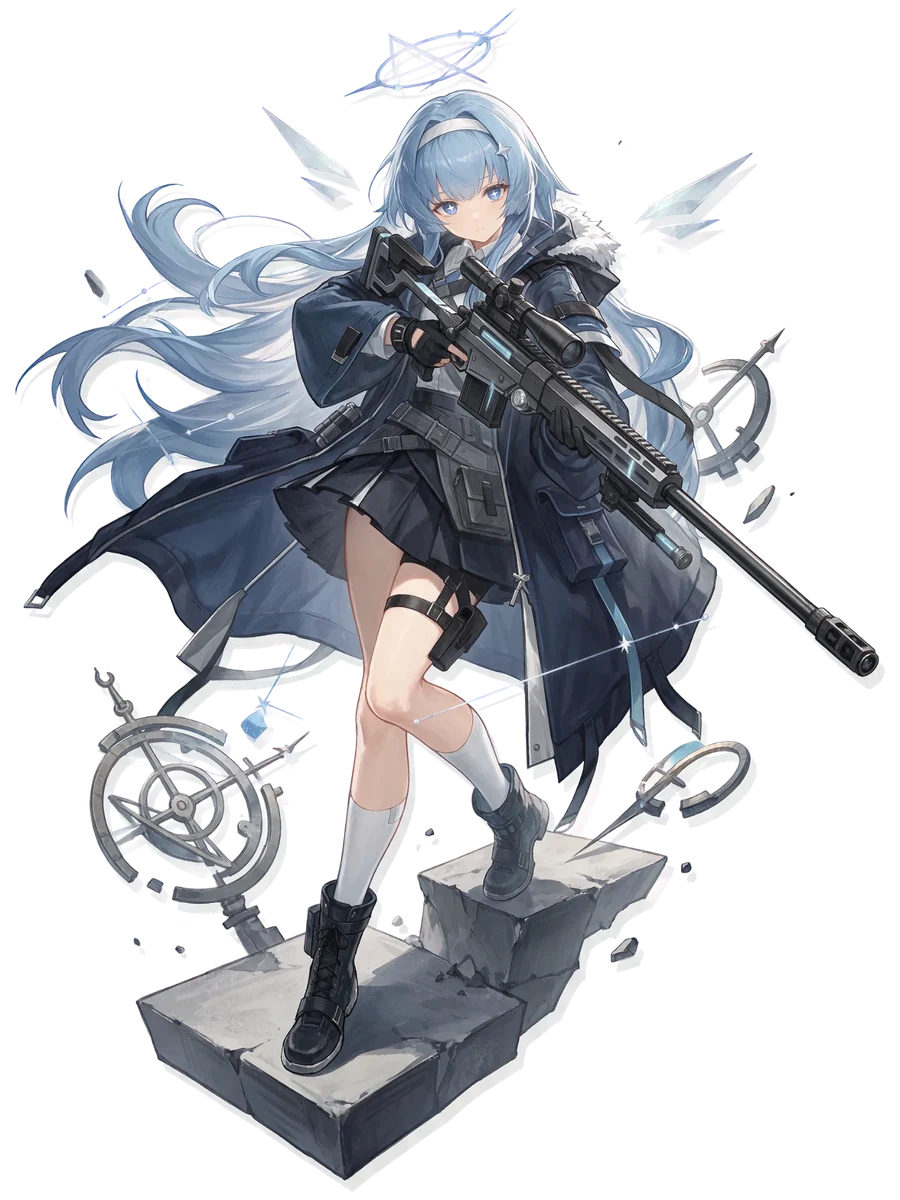
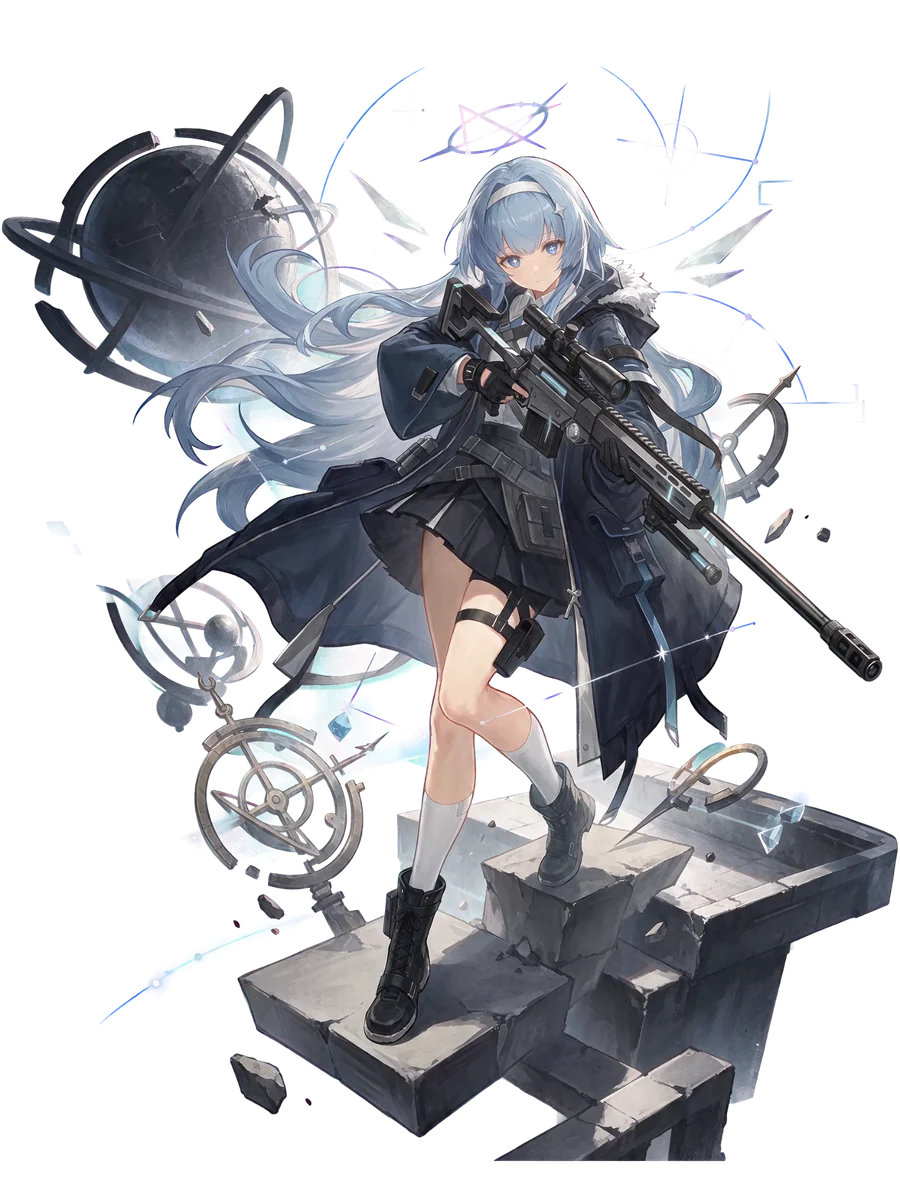
아스트라 2정 일러 교체, 메인 비서 위치·크기 편집(⟳ 버튼, 드래그·사이즈 막대), 상세 왼쪽 아래 원작 배치(직군 아이콘·근/원거리·대표 태그 2개), 상세 일러 얼굴 가운데 정렬
Claude-Session: https://claude.ai/code/session_01RhxLzgJD9WtnPFHmM2vGLF

diff --git a/arknights-au/ui.js b/arknights-au/ui.js
@@ -139,11 +139,11 @@
     if (o.skin || !o.art) return null;
     const pick = ((save.skins || {}).art || {})[o.id];
     const e2 = o.art2 && eliteOf(o.id) >= 2 && pick !== 'e0';
-    return e2 ? { src: o.art2, e2: true, wide: !!o.art2Wide, pos: o.art2Wide ? o.art2Pos || '50% 25%' : null } : { src: o.art };
+    return e2 ? { src: o.art2, e2: true, wide: !!o.art2Wide, pos: o.art2Wide ? o.art2Pos || '50% 25%' : null, face: o.art2Face } : { src: o.art, face: o.artFace };
   }
   function artHTML(def) {
     const fa = fullArt(def);
-    if (fa) return `<div class="art has-img full ${fa.wide ? 'wide' : ''} ${fa.e2 ? 'e2' : 'e0'}" style="--c:${def.color}${fa.pos ? `;--apos:${fa.pos}` : ''}${def.artView ? Object.entries(def.artView).map(([k, v]) => `;--d${k}:${v}`).join('') : ''}"><span class="art-en">${esc(def.en || '')}</span><img src="${esc(fa.src)}" alt="${esc(def.name)}"></div>`;
+    if (fa) return `<div class="art has-img full ${fa.wide ? 'wide' : ''} ${fa.e2 ? 'e2' : 'e0'}" style="--c:${def.color}${fa.pos ? `;--apos:${fa.pos}` : ''}${fa.face != null ? `;--fx:${fa.face}` : ''}${def.artView ? Object.entries(def.artView).map(([k, v]) => `;--d${k}:${v}`).join('') : ''}"><span class="art-en">${esc(def.en || '')}</span><img src="${esc(fa.src)}" alt="${esc(def.name)}"></div>`;
     if (def.image) return `<div class="art has-img" style="--c:${def.color}"><span class="art-en">${esc(def.en || '')}</span><img src="${esc(def.image)}" alt="${esc(def.name)}"></div>`;
     return `<div class="art" style="--c:${def.color}">
       <span class="art-ico">${icon(def.class)}</span>
@@ -362,6 +362,7 @@
     fixPlayer();
     const a = OPS[save.assistant];
     $('#home-art').innerHTML = artHTML(a);
+    applyHomePos();
     renderHomeEvent();
     mailDot();
     const ts = totalStars();
@@ -488,17 +489,62 @@
   $('#btn-feedback2').addEventListener('click', () => openFeedback());
   $('#home-news').addEventListener('click', () => { sfx('select'); go('store', 'packages'); });
   $('#btn-hideui').innerHTML = '<span class="oi ho_hide"></span>';
-  $('#btn-asst').innerHTML = icon('swap');
   // 그림 보기: UI를 숨기고 아무 데나 누르면 돌아옴
+  // ---------- 메인 화면 비서 위치 · 크기 조정 (원작처럼 그림을 드래그해서 옮기고, 오른쪽 막대로 크기 조절) ----------
+  // save.homeArt[오퍼 id] = { x, y: 화면 너비 · 높이 대비 % 이동, s: 배율 }
+  function homePos(id) { return { x: 0, y: 0, s: 1, ...((save.homeArt || {})[id] || {}) }; }
+  function applyHomePos(p = homePos(save.assistant)) {
+    const el = $('#home-art');
+    el.style.setProperty('--hx', p.x); el.style.setProperty('--hy', p.y); el.style.setProperty('--hs', p.s);
+  }
+  $('#btn-hpos').innerHTML = icon('swap');
+  function openHomePos() {
+    const scr = $('#screen-home'), id = save.assistant, start = homePos(id);
+    let cur = { ...start }, drag = null;
+    const clamp = (v, a, b) => Math.max(a, Math.min(b, v));
+    scr.classList.add('hp-edit');
+    const ov = document.createElement('div');
+    ov.className = 'hp-ov';
+    ov.innerHTML = `<button class="hp-btn cancel" data-hp="cancel"><i>✕</i>취소</button>
+      <div class="hp-size"><em>사이즈</em><small>200</small><input type="range" id="hp-s" min="50" max="200" step="1" aria-label="크기"><small>50</small><b id="hp-sv"></b></div>
+      <div class="hp-foot"><button class="hp-btn reset" data-hp="reset"><i>⟲</i>초기화</button><button class="hp-btn ok" data-hp="ok"><i>✓</i>확인</button></div>
+      <p class="hp-tip">그림을 끌어서 위치를 옮기고, 오른쪽 막대로 크기를 조절하세요</p>`;
+    scr.appendChild(ov);
+    const sync = () => { applyHomePos(cur); $('#hp-s').value = Math.round(cur.s * 100); $('#hp-sv').textContent = Math.round(cur.s * 100); };
+    sync();
+    $('#hp-s').addEventListener('input', (e) => { cur.s = +e.target.value / 100; sync(); });
+    ov.addEventListener('pointerdown', (e) => {
+      if (e.target.closest('.hp-btn, .hp-size')) return;
+      drag = { x: e.clientX, y: e.clientY, ox: cur.x, oy: cur.y };
+      try { ov.setPointerCapture(e.pointerId); } catch {}
+    });
+    ov.addEventListener('pointermove', (e) => {
+      if (!drag) return;
+      cur.x = clamp(drag.ox + ((e.clientX - drag.x) / innerWidth) * 100, -70, 70);
+      cur.y = clamp(drag.oy + ((e.clientY - drag.y) / innerHeight) * 100, -70, 70);
+      sync();
+    });
+    const end = () => { drag = null; };
+    ov.addEventListener('pointerup', end); ov.addEventListener('pointercancel', end);
+    ov.addEventListener('click', (e) => {
+      e.stopPropagation();
+      const b = e.target.closest('[data-hp]');
+      if (!b) return;
+      const k = b.dataset.hp;
+      sfx('select');
+      if (k === 'reset') { cur = { x: 0, y: 0, s: 1 }; sync(); return; }
+      if (k === 'ok') {
+        save.homeArt = save.homeArt || {};
+        if (cur.x || cur.y || cur.s !== 1) save.homeArt[id] = { x: Math.round(cur.x * 10) / 10, y: Math.round(cur.y * 10) / 10, s: cur.s }; else delete save.homeArt[id];
+        writeSave(); toast('비서 위치를 저장했습니다');
+      } else applyHomePos(start);
+      ov.remove(); scr.classList.remove('hp-edit');
+    });
+  }
+  $('#btn-hpos').addEventListener('click', (e) => { e.stopPropagation(); openHomePos(); });
   $('#btn-hideui').addEventListener('click', (e) => { e.stopPropagation(); $('#screen-home').classList.add('ui-hidden'); });
-  $('#screen-home').addEventListener('click', (e) => { if ($('#screen-home').classList.contains('ui-hidden')) { e.stopPropagation(); $('#screen-home').classList.remove('ui-hidden'); } }, true);
+  $('#screen-home').addEventListener('click', (e) => { if ($('#screen-home').classList.contains('ui-hidden') && !$('#screen-home').classList.contains('hp-edit')) { e.stopPropagation(); $('#screen-home').classList.remove('ui-hidden'); } }, true);
   // 비서 교체: 등록한 비서들을 차례로
-  $('#btn-asst').addEventListener('click', () => {
-    const list = (save.assistants || []).filter((id) => OPS[id]);
-    if (list.length < 2) { toast('오퍼레이터 상세에서 비서를 더 추가하면 바꿀 수 있습니다'); return; }
-    save.assistant = list[(list.indexOf(save.assistant) + 1) % list.length];
-    writeSave(); sfx('select'); greeted = false; RENDER.home();
-  });
   $('#home-event').addEventListener('click', () => { sfx('select'); go('event'); });
 
   // ---------- 우편함 ----------
@@ -1094,9 +1140,14 @@
     $('#detail-en').textContent = o.en || '';
     $('#detail-name').textContent = o.name;
     fitName($('#detail-name'));
-    $('#detail-class').innerHTML = `${icon(o.class)}<b>${cls.name}</b>${arch ? `<small>${PRO_IMG.has(o.class) ? `<img class="sub-ico" src="${PK(`img/ui/sub_${o.archetype}.png`)}" alt="">` : ''}${esc(arch.name)}</small>` : ''}`;
+    $('#detail-class').innerHTML = icon(o.class);
+    $('#detail-class').title = `${cls.name}${arch ? ` · ${arch.name}` : ''}`;
     $('#detail-range').innerHTML = rangeGridHTML(o.range, 12);
-    $('#detail-tags').innerHTML = [(o.tile || cls.tile) === 'any' ? '지면 · 고지대 배치' : (o.tile || cls.tile) === 'ground' ? '지면 배치' : '고지대 배치', ...(o.tags || [])].map((t) => `<span>${esc(t)}</span>`).join('');
+    // 원작처럼: 위에 근거리/원거리, 아래에 대표 태그 두 개 (mainTags로 직접 지정 가능)
+    const POS_TAGS = ['근거리', '원거리'], tg = o.tags || [];
+    const posTag = tg.find((t) => POS_TAGS.includes(t)) || ((o.tile || cls.tile) === 'ground' ? '근거리' : '원거리');
+    const mainTags = (o.mainTags || tg.filter((t) => !POS_TAGS.includes(t))).slice(0, 2);
+    $('#detail-tags').innerHTML = `<span class="tg-pos">${esc(posTag)}</span><span class="tg-main">${mainTags.map((t) => `<i>${esc(t)}</i>`).join(' ')}</span>`;
     $('#detail-cost').textContent = o.cost;
     const list = skillsOf(base), cur = skillIndex(base), tlist = skillsOf(o);
     // 원작처럼: 스킬 아이콘(이름 · SP) 중 하나를 눌러 보고, 「디폴트 스킬」로 전투에 쓸 스킬을 정한다

diff --git a/arknights-au/style.css b/arknights-au/style.css
@@ -3688,9 +3688,11 @@ var.oi { font-style: normal; }
 /* 상세: 원작처럼 일러를 화면 전체 뒤에 크게 (머리는 위쪽 1/4, 다리는 아래로 잘림) · 패널이 위에 겹침
    오퍼마다 --dz(그림 높이, 화면 높이 대비) · --dx(가로 중심) · --dy(위 여백)로 조정 */
 .detail-art:has(.art.full) { clip-path: none; -webkit-mask-image: none; mask-image: none; left: 0; right: 0; overflow: hidden; }
-.detail-art .art.full img { inset: auto; top: var(--dy, 1%); left: var(--dx, 56%); width: auto; height: var(--dz, 160%); max-width: none; transform: translateX(-50%); object-fit: contain; }
+.detail-art .art.full img { inset: auto; top: var(--dy, 1%); width: auto; max-width: none; transform: translateX(-50%); object-fit: contain;
+  /* 얼굴(--fx: 그림 안 가로 위치)이 왼쪽 · 오른쪽 패널 사이 가운데(--dcx)에 오도록. --ar: 그림 가로/세로 비 */
+  --zn: var(--dzn, 1.6); height: calc(var(--zn) * 100%); left: calc(var(--dcx, 52.5%) + (0.5 - var(--fx, .5)) * var(--ar, .75) * var(--zn) * 100vh); }
 /* 정예화 0 · 1 일러는 원작처럼 조금 작게: 머리부터 무릎 아래까지 거의 전신 */
-.detail-art .art.full.e0 img { top: var(--dy, 10%); height: var(--dz, 115%); left: var(--dx, 54%); }
+.detail-art .art.full.e0 img { top: var(--dy, 10%); --zn: var(--dzn, 1.15); }
 .art.full.wide img { inset: 0 !important; width: 100% !important; height: 100% !important; margin: 0 !important; object-fit: cover !important; object-position: var(--apos, 50% 25%) !important; }
 @media (max-width: 760px) and (orientation: portrait) {
   .home-art:has(.art.full) { left: auto; width: 62%; height: 46vh; }
@@ -3700,3 +3702,44 @@ var.oi { font-style: normal; }
 /* 밝은 원작 배경 위에서도 스탯 글자가 보이도록 칩 배경 */
 .stat-grid span { background: linear-gradient(90deg, rgba(20,21,24,.72), rgba(20,21,24,.3)); padding-right: 8px; }
 .stat-grid b { background: none; }
+
+/* ---------- 메인 화면 비서 위치 · 크기 (드래그 편집) ---------- */
+#home-art { translate: calc(var(--hx, 0) * 1vw) calc(var(--hy, 0) * 1vh); scale: var(--hs, 1); transform-origin: 50% 40%; }
+#screen-home.hp-edit > :not(.home-bg):not(.home-art):not(.hp-ov) { opacity: 0; pointer-events: none; transition: opacity .25s; }
+#screen-home.hp-edit .home-art { animation: none; pointer-events: none; }
+.hp-ov { position: absolute; inset: 0; z-index: 20; cursor: grab; touch-action: none; }
+.hp-ov:active { cursor: grabbing; }
+.hp-btn { position: absolute; display: flex; align-items: center; gap: 10px; min-width: 180px; padding: 8px 18px 8px 8px; background: rgba(20,21,24,.82); color: #fff; font-size: 18px; font-weight: 700; border-left: 3px solid #fff; }
+.hp-btn i { width: 34px; height: 34px; border-radius: 50%; display: inline-flex; align-items: center; justify-content: center; font-style: normal; font-size: 20px; background: #fff; color: #222; }
+.hp-btn.cancel { top: 16px; right: 16px; }
+.hp-btn.cancel i { background: #d8343a; color: #fff; }
+.hp-btn.ok i { background: #1f86d8; color: #fff; }
+.hp-foot { position: absolute; right: 16px; bottom: 16px; display: flex; flex-direction: column; gap: 10px; }
+.hp-foot .hp-btn { position: static; }
+.hp-size { position: absolute; right: 40px; top: 50%; transform: translateY(-50%); display: flex; flex-direction: column; align-items: center; gap: 8px; padding: 12px 10px; background: rgba(20,21,24,.6); color: #fff; cursor: default; }
+.hp-size em { font-style: normal; font-size: 13px; color: #ccc; }
+.hp-size small { font-family: var(--f-en); font-size: 16px; }
+.hp-size b { font-family: var(--f-en); font-size: 22px; color: #ffcf3a; }
+.hp-size input { writing-mode: vertical-lr; direction: rtl; width: 28px; height: 38vh; accent-color: #fff; }
+.hp-tip { position: absolute; left: 50%; bottom: 18px; transform: translateX(-50%); background: rgba(0,0,0,.6); color: #fff; padding: 6px 16px; font-size: 14px; pointer-events: none; white-space: nowrap; }
+
+/* ---------- 오퍼레이터 상세 왼쪽 (원작 배치) ---------- */
+.stat-grid span { background: linear-gradient(90deg, rgba(240,240,242,.55), rgba(240,240,242,.22)); color: #fff; text-shadow: 0 0 2px rgba(0,0,0,.95), 0 1px 3px rgba(0,0,0,.8); padding-right: 8px; height: 28px; }
+.stat-grid i { background: #111; border: none; }
+.detail-stars { color: #fff; text-shadow: 0 0 2px #555, 0 1px 3px rgba(0,0,0,.6); }
+.detail-bottom { gap: 8px; align-items: stretch; }
+.class-box { width: 100px; height: 100px; background: rgba(28,29,32,.88); border: 1px solid rgba(255,255,255,.28); gap: 0; }
+.class-box .ico { font-size: 62px; }
+.class-box img.ico.pro { width: 64px; height: 64px; }
+.range-box { width: 150px; height: 100px; background: rgba(28,29,32,.88); border: 1px solid rgba(255,255,255,.12); }
+.tag-col { width: 156px; gap: 6px; justify-content: stretch; }
+.tag-col span { display: flex; align-items: center; justify-content: center; text-align: center; font-weight: 700; color: #fff; padding: 2px 8px;
+  background: radial-gradient(circle, rgba(255,255,255,.14) 1px, transparent 1.6px) right / 6px 6px, linear-gradient(90deg, #3d3e42 55%, #2b2c30); }
+.tag-col .tg-pos { height: 32px; flex: none; font-size: 18px; }
+.tag-col .tg-main { flex: 1; font-size: 18px; line-height: 1.15; flex-wrap: wrap; align-content: center; column-gap: 7px; row-gap: 2px; }
+.tag-col .tg-main i { font-style: normal; white-space: nowrap; }
+@media (max-width: 760px) and (orientation: portrait) {
+  .class-box, .range-box { width: 76px; height: 76px; }
+  .tag-col { width: 120px; }
+  .tag-col .tg-pos, .tag-col .tg-main { font-size: 14px; }
+}

diff --git a/arknights-au/data.js b/arknights-au/data.js
@@ -158,7 +158,8 @@ const OPERATORS = [
     },
     image: 'img/byeol.png',
     // 정예화 일러스트: art = 기본(정예화 0 · 1), art2 = 정예화 2. 가로로 긴 그림이면 art2Wide: true, art2Pos: 세로 틀에서 잘라 보일 위치
-    art: 'img/art/byeol_e1.webp', art2: 'img/art/byeol_e2.webp',
+    // artFace / art2Face: 그림 안에서 얼굴의 가로 위치(0~1). 상세 화면에서 얼굴이 가운데 오게 맞춤
+    art: 'img/art/byeol_e1.webp', art2: 'img/art/byeol_e2.webp', artFace: 0.49, art2Face: 0.58,
     profile: '코드네임 아스트라, 본명 천사별. 라테라노 출신 산크타 저격수. 말수가 적고 수줍음이 많지만, 어릴 때부터 총을 다뤄 온 만큼 사격 실력만큼은 확실하다. 전투에 들어가면 오히려 침착해진다. 김가을 · 이아이 · 안심해와 같은 반이며 함께 예비행동대 S-3로 활동한다. 안심해와는 어릴 때부터 알던 사이.',
     quote: '시야 확보했어요.',
     // 저격수(원작 deadeye): 원작 저격수 범위 3-9, 공격 간격 2.7초

diff --git a/arknights-au/index.html b/arknights-au/index.html
@@ -33,7 +33,7 @@
         <div class="lv-ring"><b id="home-lv">1</b><small>LV</small></div>
       </div>
       <div class="home-name"><b id="home-name"></b><small id="home-id"></small>
-        <span class="home-rbtns"><button id="btn-hideui" aria-label="그림 보기" title="그림 보기"></button><button id="btn-asst" aria-label="비서 교체" title="비서 교체"></button></span></div>
+        <span class="home-rbtns"><button id="btn-hideui" aria-label="그림 보기" title="그림 보기"></button><button id="btn-hpos" aria-label="비서 위치 · 크기 조정" title="비서 위치 · 크기 조정"></button></span></div>
       <button class="home-voice" id="home-voice">
         <span class="voice-tag">VOICE</span>
         <span id="home-voice-text"></span>
